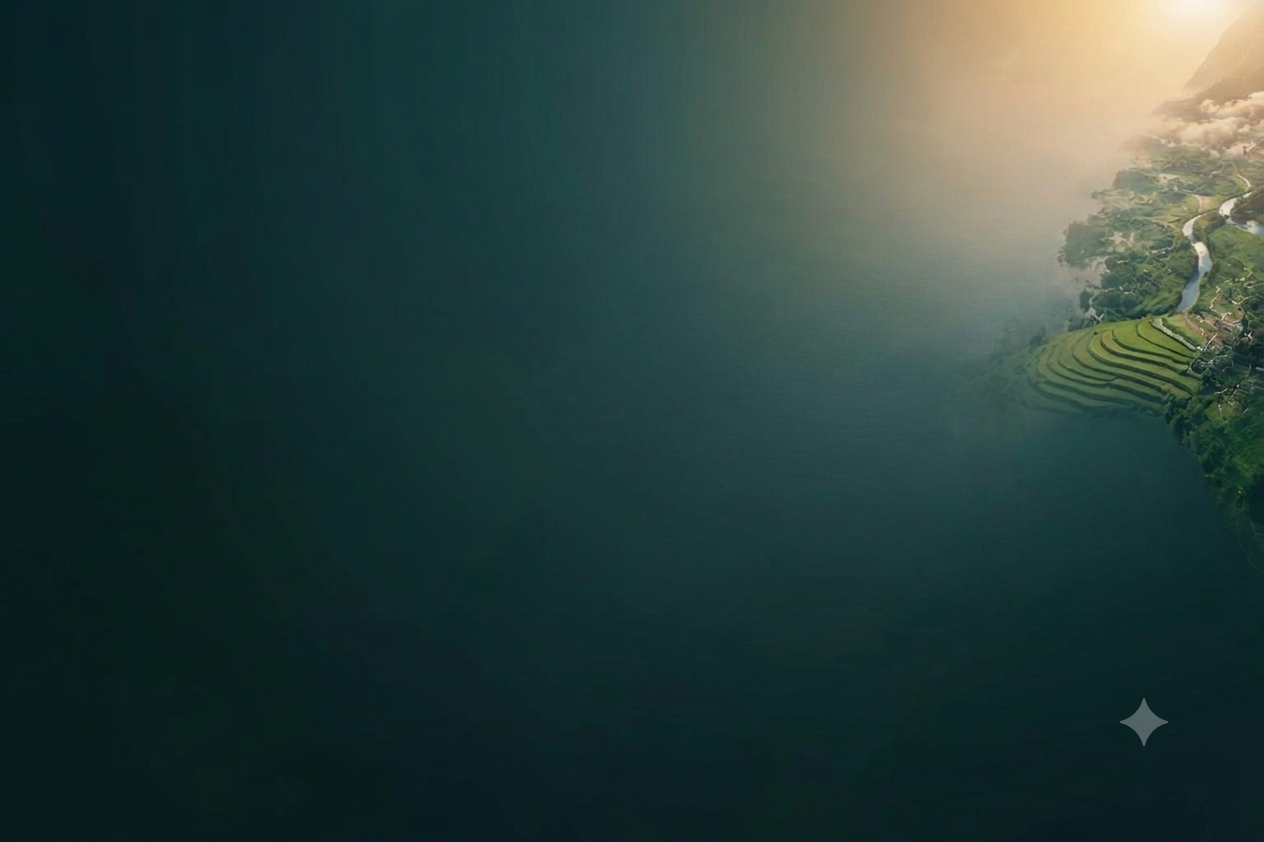
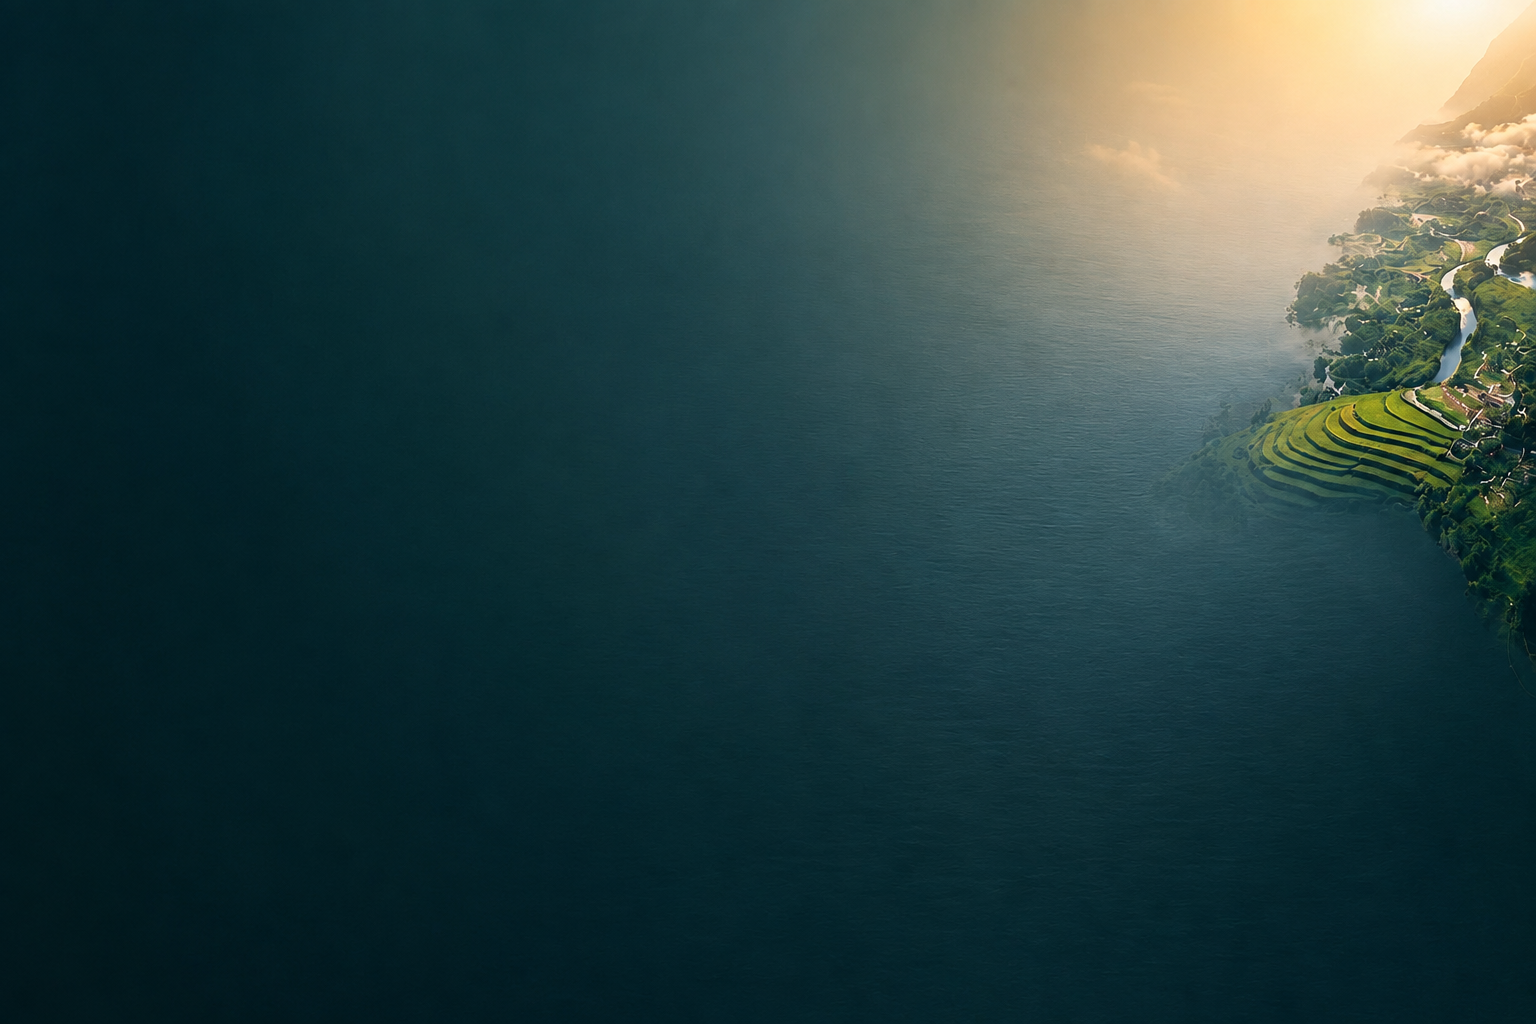
feat: update background assets and replace globe visual with text overlay in Unified Geo Stack section

Changed region(s): [[0.6171, 0.0, 1.0, 0.5867], [0.8948, 0.8337, 0.9256, 0.8955], [0.7097, 0.3397, 0.7405, 0.3705]]

diff --git a/components/sections/Unfied-Geo-Stack.tsx b/components/sections/Unfied-Geo-Stack.tsx
@@ -261,24 +261,25 @@ export default function UnifiedGeoStack() {
                   lg:w-[430px]
                 "
               >
-                <div className="relative aspect-square overflow-hidden rounded-full shadow-[0_0_80px_rgba(52,211,153,0.15)]">
-                  <Image
-                    src="/images/earth.png" // Ensure this matches your public folder path
-                    alt="Earth"
-                    fill
-                    priority
-                    className="object-contain"
-                  />
-                  <div
-                    className="
-                      pointer-events-none
-                      absolute inset-0
-                      rounded-full
-                      bg-emerald-900/10
-                      mix-blend-multiply
-                    "
-                  />
-                </div>
+               <div className="relative aspect-square overflow-hidden rounded-full shadow-[0_0_80px_rgba(52,211,153,0.15)]">
+  <Image
+    src="/images/earth.png"
+    alt="Earth"
+    fill
+    priority
+    className="object-contain"
+  />
+
+  {/* Dark overlay */}
+  <div className="absolute inset-0 z-[1] rounded-full bg-black/40" />
+
+  {/* Text overlay */}
+  <div className="absolute inset-0 z-10 flex items-center justify-center">
+    <span className="max-w-xs px-6 pt-10 text-center text-4xl font-semibold uppercase text-white drop-shadow-[0_2px_8px_rgba(0,0,0,0.8)]">
+      A Smarter, Safer, More Resilient Planet
+    </span>
+  </div>
+</div>
               </div>
             </div>
 
